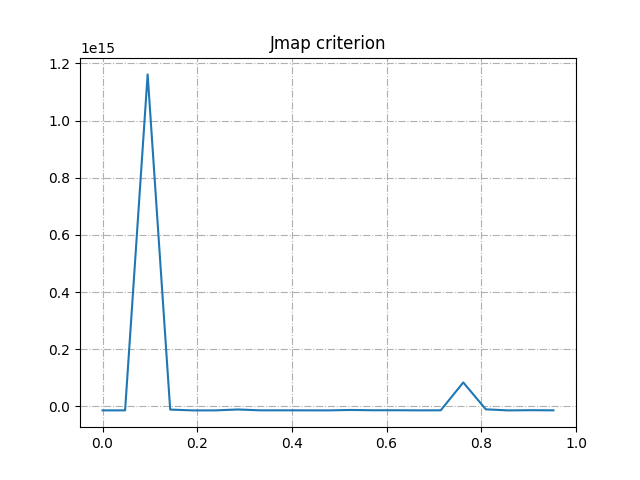
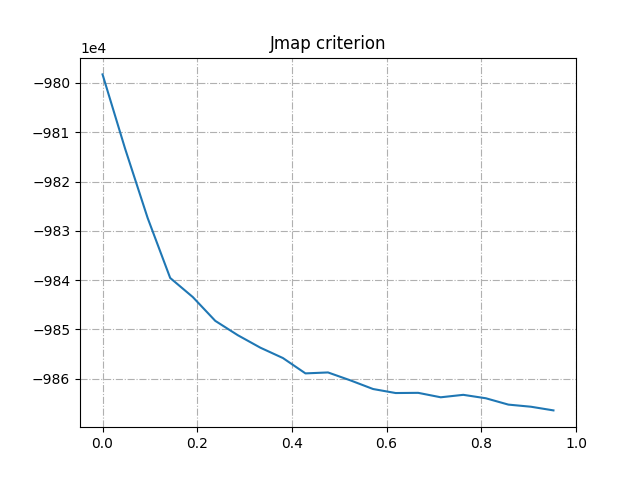
Updated : joint estimation has now the right shape but values' range seem quite tigh compared to marginal extra terms amplitude.

diff --git a/Scripts/functions.py b/Scripts/functions.py
@@ -11,7 +11,7 @@ from plotLib import saveImsubplots, saveImplot
 import numpy as np
 import scipy as sp
 
-def JmapCriterion2psf(oObject, dspObject, psf_1, psf_2, alpha, verbose=False):
+def jointMAP2psf(oObject, dspObject, psf_1, psf_2, alpha, verbose=False):
     """Performs the joint estimation of the object and the PSF using the Jmap criterion. The criterion is computed for the given object, the two PSFs and the alpha value. The simulated image is computed using the object and the PSF. The noise is added to the simulated image. The noise and signal DSPs are computed. The Jmap criterion is computed and returned.
 
     Args:
@@ -39,41 +39,68 @@ def JmapCriterion2psf(oObject, dspObject, psf_1, psf_2, alpha, verbose=False):
     # from scipy.signal import convolve2d
 
     psfPadded = np.pad(psf, (256, 256), 'wrap') # Use the padded psf for the Fourier transform
-    simImage = sp.fft.ifft2(sp.fft.fft2(oObject) * sp.fft.fft2(psfPadded)).real # Q: Should the psf be fftshifted here ?
+    psfPadded = sp.fft.ifftshift(psfPadded)
+    simImage = sp.fft.ifft2(sp.fft.fft2(oObject) * sp.fft.fft2(psfPadded))# Q: Should the psf be fftshifted here ?
     # simImage[:512, :512]
-    noise = 0.01 * np.max(oObject) * np.random.randn(*simImage.shape) # Noise corresponding roughly to photon noise for an average of 10 000 photons/pixels
+    sigma = 0.01 * np.max(oObject)
+    noise = sigma * np.random.randn(*simImage.shape) # Noise corresponding roughly to photon noise for an average of 10 000 photons/pixels
     simImageNoised = simImage + noise
 
 
     ### Plot simulated object, noise, image for quality check
     if verbose:
-        saveImsubplots([oObject, simImage, noise, simImageNoised], ["Object", "Image", "Noise", "Noised Image"], filename="simulated_object_image_noisedImage", save=True, plot=True)
+        saveImsubplots([oObject, simImage.real, noise, simImageNoised.real], ["Object", "Image", "Noise", "Noised Image"], filename="simulated_object_image_noisedImage", save=True, plot=True)
 
 
 
     ## Compute the noise and signal DSPs
-    dspNoise = sp.fft.ifft2(sp.fft.fft2(noise) * sp.fft.fft2(noise).conj()).real # Correlation therorem
+    # dspNoise = np.abs(sp.fft.ifft2(sp.fft.fft2(noise) * sp.fft.fft2(noise).conj()))**2 # Correlation therorem
     # dspObject = sp.fft.ifft2(sp.fft.fft2(oObject) * sp.fft.fft2(oObject).conj()).real # Correlation therorem
     dspObject = dspObject[:1024,:1024] # The DSP of the object is known
     
 
     ### Plot simulated object, noise, image for quality check
-    if verbose:
-        saveImsubplots([dspNoise, dspObject], ["DSP of the synthetic noise", "DSP of the synthetic object"], filename="dsp_noise_and_object", columnNumber=2, save=True, plot=True, logScale=True)
+    # if verbose:
+    #     saveImsubplots([dspNoise, dspObject], ["DSP of the synthetic noise", "DSP of the synthetic object"], filename="dsp_noise_and_object", columnNumber=2, save=True, plot=True, logScale=True)
 
 
     ## Compute the Jjmap criterion and plot it
     N =  simImage.shape[0] * simImage.shape[1] # Number of pixels
-    dspNoise = dspNoise.mean() # Average noise power, the noise is white so it is constant, one could have taken dspNoise[0,0]
+    dspNoise = sigma**2 * simImage.shape[0]**2 # dspNoise.mean() # Average noise power, the noise is white so it is constant, one could have taken dspNoise[0,0] = sigma^2 ici attention à la normalisation avec le nombre de pixel pour garder l'énergie constante
 
     Jmap = (
-        0.5 * N**2 * np.log(dspNoise) +
+        0.5 * N * np.log(dspNoise) + # Here we removed the N**2 factor because it led to a very large negative offset (1e12 order of magnitude). I think it has already been taken into account in the definition of the dsp    
         0.5 * np.sum(np.log(dspObject)) +
         0.5 * np.sum(
             np.abs(sp.fft.fft2(simImageNoised) - sp.fft.fft2(simImage))**2 / # Equivalent to np.abs(sp.fft.fft2(noise))**2
             dspObject /
-            (np.abs(sp.fft.fft2(psfPadded))**2 + dspNoise / dspObject) # Q: Is there an impact of using the padded PSF here ?
+            (np.abs(sp.fft.fft2(psfPadded))**2 + dspNoise * np.reciprocal(dspObject)) # Q: Is there an impact of using the padded PSF here ?
         )
     )
     
-    return Jmap
+    return Jmap, dspNoise, psfPadded, N
+
+
+def marginalML2psf(oObject, dspObject, psf_1, psf_2, alpha, verbose=False):
+    """Performs the joint estimation of the object and the PSF using the Jmap criterion. The criterion is computed for the given object, the two PSFs and the alpha value. The simulated image is computed using the object and the PSF. The noise is added to the simulated image. The noise and signal DSPs are computed. The Jmap criterion is computed and returned.
+
+    Args:
+        oObject (float): Array representing the object to be estimated.
+        psf_1 (float): Array representing the first PSF.
+        psf_2 (float): Array representing the second PSF.
+        alpha (float): Scalar representing the weight of the first PSF in the final PSF.
+        verbose (bool, optional): Display and save intermediate plots. Defaults to False.
+
+    Returns:
+        float: Jmap criterion value. The joint MAP solution is the value of alpha that minimize Jmap.
+    """
+    Jmap, dspNoise, psfPadded, N = jointMAP2psf(oObject, dspObject, psf_1, psf_2, alpha, verbose)
+    dspObject = dspObject[:1024,:1024]
+
+    Jml = (
+        # Jmap +
+        0.5 * np.sum(np.log(np.abs(sp.fft.fft2(psfPadded))**2 + dspNoise * np.reciprocal(dspObject))) - 
+        0.5 * N * np.log(dspNoise) # Here we removed the N**2 factor because it led to a very large negative offset (1e12 order of magnitude). I think it has already been taken into account in the definition of the dsp
+    )
+    
+    return Jml

diff --git a/Scripts/main.py b/Scripts/main.py
@@ -63,7 +63,8 @@ saveImplot(oObject, f"Object for rho_0 = {rho_0}", filename=f"Object for rho_0 =
 ## Loading PSF with astropy module, that offers a loading function for Flexible Image Transport Image
 from astropy.io import fits
 
-filename = 'IO-PTI/data/3psfs_zeroPiSur2EtPi.fits' # Open the FITS file
+# 'IO-PTI/data/3psfs_zeroPiSur2EtPi.fits' # Open the FITS file on windows
+filename = './data/3psfs_zeroPiSur2EtPi.fits' # Open the FITS file on ubuntu
 
 with fits.open(filename) as hdul:
     # hdul is a list-like object containing all HDUs (Header Data Units)
@@ -83,7 +84,6 @@ saveImsubplots(data, ["PSF 1", "PSF 2", "PSF 3"], filename="psfs", save=True, pl
 
 
 # Bayesian estimation : Derive alpha from 2 extreme PSF and criterion
-from functions import JmapCriterion2psf
 from tqdm.auto import tqdm
 
 psf_1, psf_2, psf_3 = data[0], data[1], data[2]
@@ -91,12 +91,39 @@ N = 20
 xAxis = [i /(N + 1) for i in range(N + 1)] # Define the alpha axis
 yAxis = np.zeros(N + 1) # Define the Jmap axis
 
+
+
+## Joint estimation
+from functions import jointMAP2psf
+
 pbar = tqdm(desc="Jmap computation", total=100, unit_scale=True)
 
 for i, alpha in enumerate(xAxis):
-    yAxis[i] = JmapCriterion2psf(oObject, dspObject, psf_1, psf_3, alpha, verbose=True if i==1 else False)
+    res = jointMAP2psf(oObject, dspObject, psf_1, psf_3, alpha, verbose=True if i==1 else False)
+    yAxis[i] = res[0]
+    # print(f"Jmap Value for i = {i}: {yAxis[i]}")
     pbar.update(round(100 /(N + 1)))
 pbar.close()
 
 ### Plot Jmap for quality check
 savePlot(xAxis, yAxis, "Jmap criterion", filename="Jmap_criterion", save=True, plot=True, logX=False, logY=False)
+
+
+## Marginal estimation
+
+from functions import marginalML2psf
+
+pbar = tqdm(desc="Jml computation", total=100, unit_scale=True)
+
+for i, alpha in enumerate(xAxis):
+    res = marginalML2psf(oObject, dspObject, psf_1, psf_3, alpha, verbose=True if i==1 else False)
+    yAxis[i] = res
+    # print(f"Jml Value for i = {i}: {yAxis[i]}")
+    pbar.update(round(100 /(N + 1)))
+pbar.close()
+
+### Plot Jmap for quality check
+savePlot(xAxis, yAxis, "Jml criterion", filename="Jml_criterion", save=True, plot=True, logX=False, logY=False)
+
+
+

diff --git a/Scripts/plotLib.py b/Scripts/plotLib.py
@@ -11,7 +11,8 @@ from math import ceil
 from matplotlib import pyplot as plt
 from matplotlib.colors import LogNorm
 
-SAVE_PATH = 'IO-PTI/outputs/'
+# SAVE_PATH = 'IO-PTI/outputs/' # Windows
+SAVE_PATH = './outputs/'  # Ubuntu
 
 def savePlot(x, y, title, filename="output", save=False, plot=True, logX=False, logY=False):
     """Save and plot a single serie with plt.plot()
@@ -29,6 +30,7 @@ def savePlot(x, y, title, filename="output", save=False, plot=True, logX=False, 
     ax.plot(x, y)
     ax.set_title(title)
     ax.grid(True, linestyle='-.')
+    ax.ticklabel_format(axis='y', style='sci', scilimits=(4,4))
 
     if logX:
         ax.set_xscale('log')
